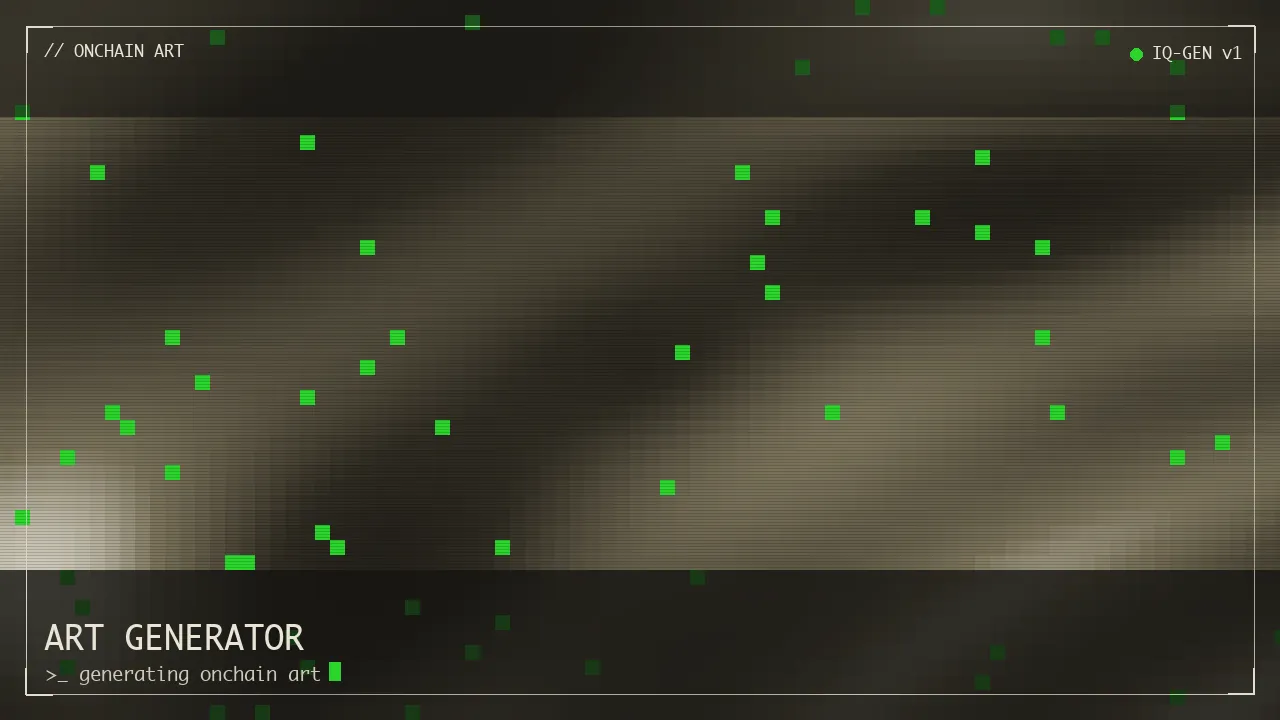
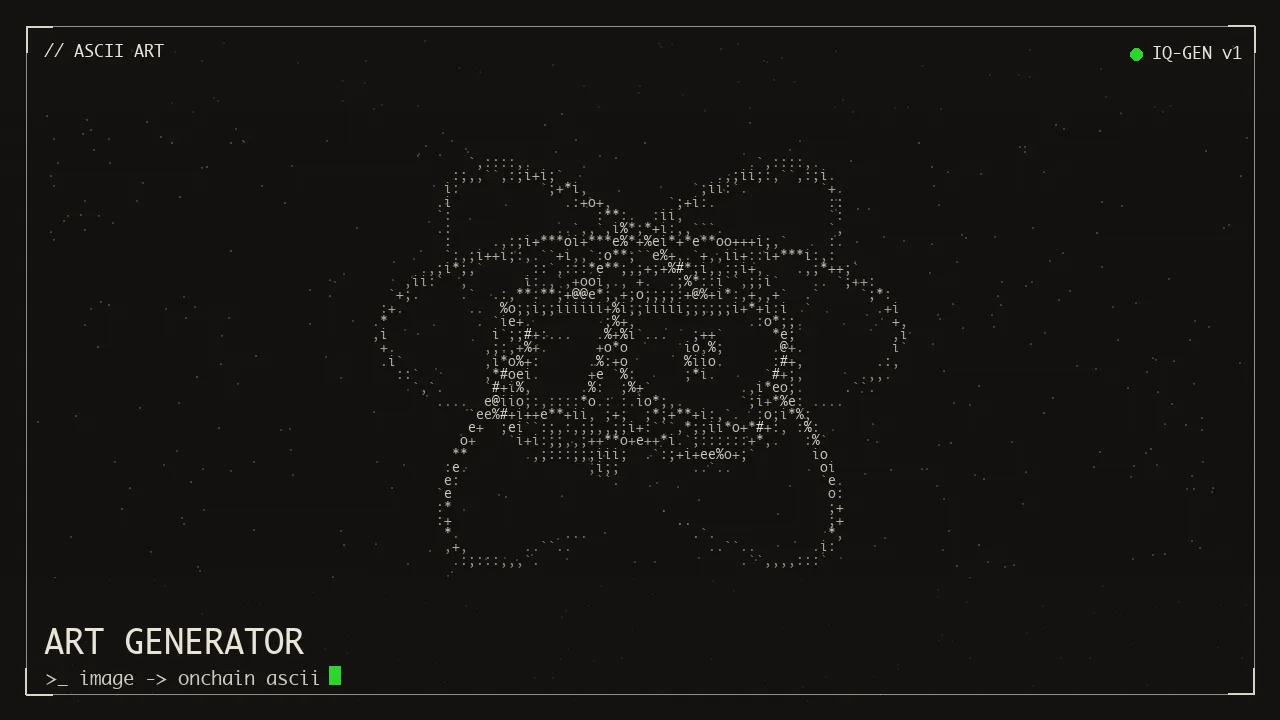
Fix invisible ENTER BLOCKCHAN button; ASCII-art Art Generator card
- The .rd_root a color rule out-specified .rd-btn-solid, making the solid
  CTA beige-on-beige. Scope the button rules under .rd_root a to restore
  dark text at rest and on hover.
- Replace the Art Generator card art with an ASCII render of the IQ logo,
  which is what the generator actually produces (image to onchain ASCII).

diff --git a/assets/html/sections/main_page.html b/assets/html/sections/main_page.html
@@ -29,8 +29,8 @@
 .rd-proj:hover{border-color:#e8e4d6;transform:translateY(-5px);box-shadow:0 14px 32px rgba(0,0,0,.4)}
 .rd-proj img{transition:filter .5s,transform .6s cubic-bezier(.2,.7,.2,1)}
 .rd-proj:hover img{filter:none !important;transform:scale(1.035)}
-.rd-btn-solid{background:#e8e4d6;color:#1b1a17;padding:12px 20px;border-radius:4px;font-weight:700;transition:all .35s cubic-bezier(.2,.7,.2,1)}
-.rd-btn-solid:hover{background:#fff;color:#141310;transform:translateY(-2px);box-shadow:0 6px 20px rgba(0,0,0,.45)}
+.rd_root a.rd-btn-solid{background:#e8e4d6;color:#1b1a17;padding:12px 20px;border-radius:4px;font-weight:700;transition:all .35s cubic-bezier(.2,.7,.2,1)}
+.rd_root a.rd-btn-solid:hover{background:#fff;color:#141310;transform:translateY(-2px);box-shadow:0 6px 20px rgba(0,0,0,.45)}
 .rd-btn-ghost{border:1px solid #e8e4d6;padding:11px 20px;border-radius:4px;transition:all .35s cubic-bezier(.2,.7,.2,1)}
 .rd-btn-ghost:hover{background:rgba(232,228,214,.16);transform:translateY(-2px)}
 
